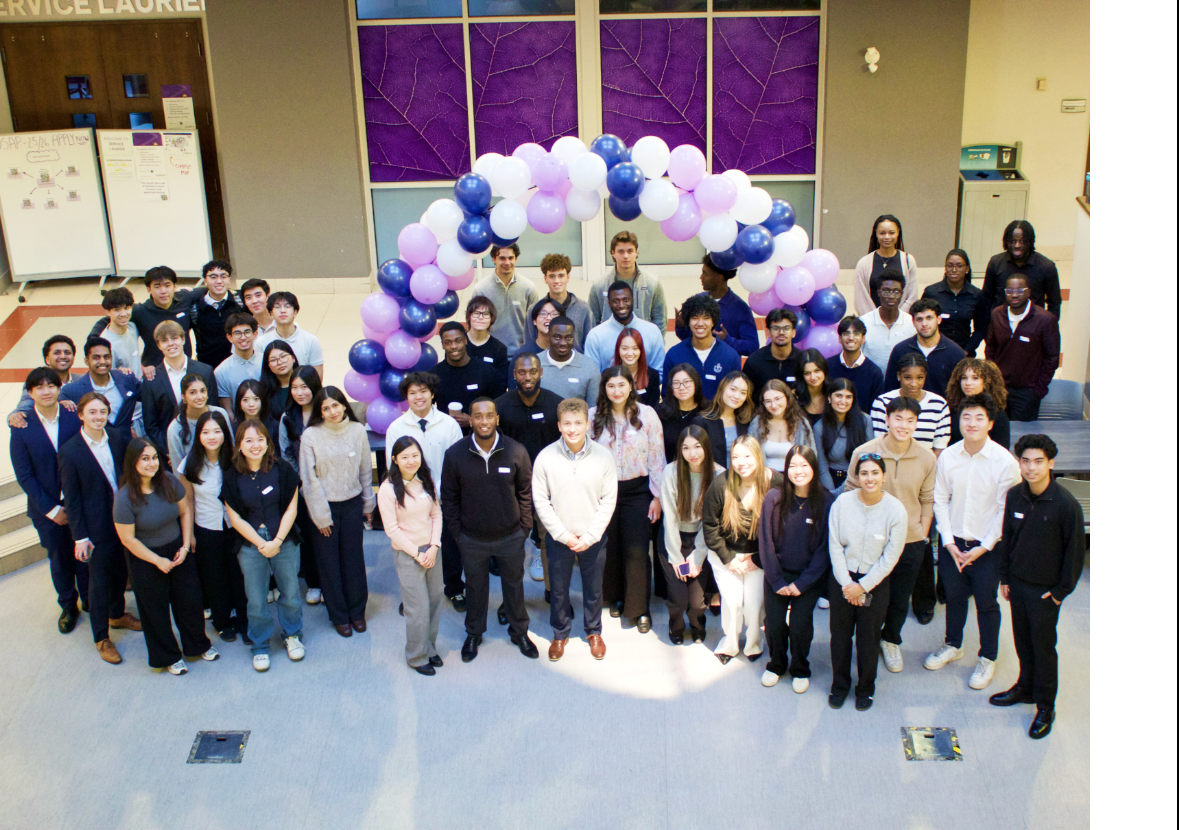
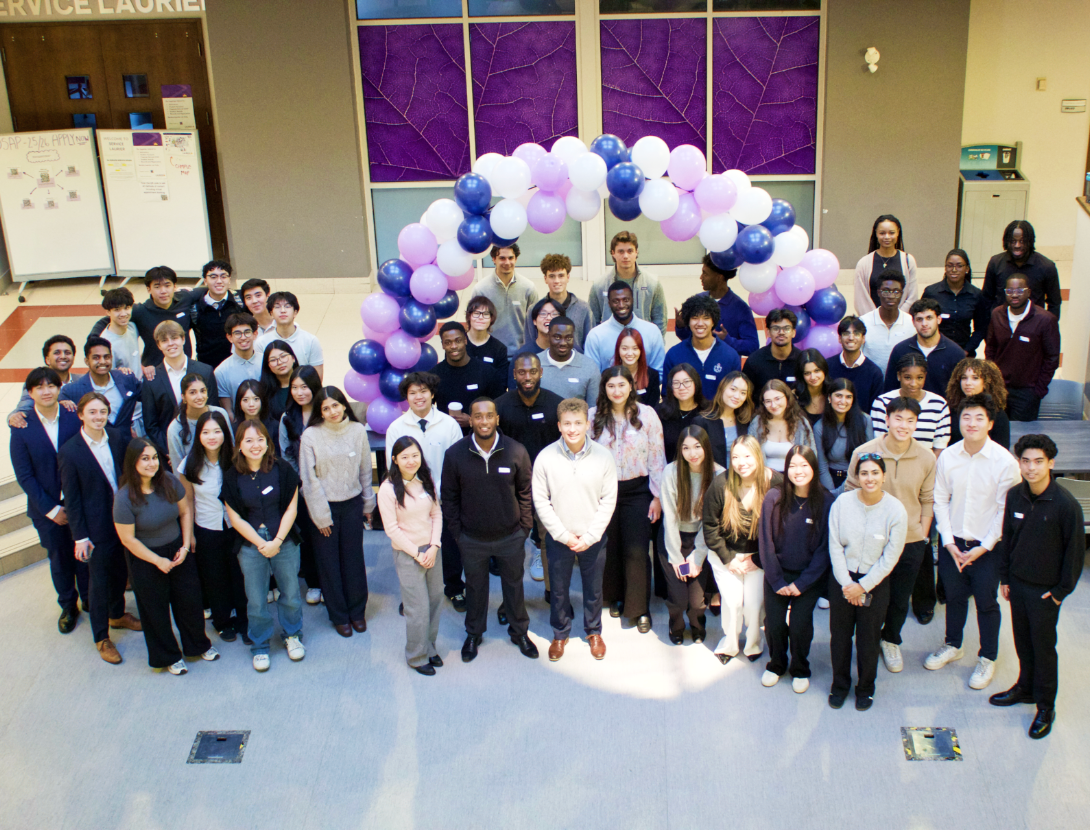
fix: stop distorting the Mastercard photo and crop the panel photo
Two problems on the Events page, both in the images rather than the layout.

The Diversity in Consulting panel photo carried an 89px strip of solid white
baked into the right edge of the file itself, which object-fit: cover was then
faithfully rendering. Cropped the source from 1179x830 to 1090x830; no CSS
change needed.

The Mastercard photo was set to objectFit: 'fill' with transform: scaleX(1.4),
which stretched it twice: `fill` ignores the aspect ratio to fit the box, and
the transform widened the result another 40% on top of that. Switched to
`cover`, which crops rather than distorting, so people are the right shape.

diff --git a/src/app/events/page.tsx b/src/app/events/page.tsx
@@ -214,7 +214,12 @@ export default function Events() {
                   alt="Mastercard Info Session & Networking Night"
                   fill
                   sizes="(max-width: 900px) 100vw, 50vw"
-                  style={{ objectFit: 'fill', transform: 'scaleX(1.4)', transformOrigin: 'center', filter: 'brightness(0.82)' }}
+                  /* Was objectFit:'fill' plus scaleX(1.4), which stretched the
+                     photo twice over: `fill` ignores the aspect ratio to match
+                     the box, and the transform widened it another 40% on top.
+                     `cover` crops instead of distorting, so people keep their
+                     proportions. */
+                  style={{ objectFit: 'cover', objectPosition: 'center', filter: 'brightness(0.82)' }}
                 />
               </div>
               <div className="event-card-body">
